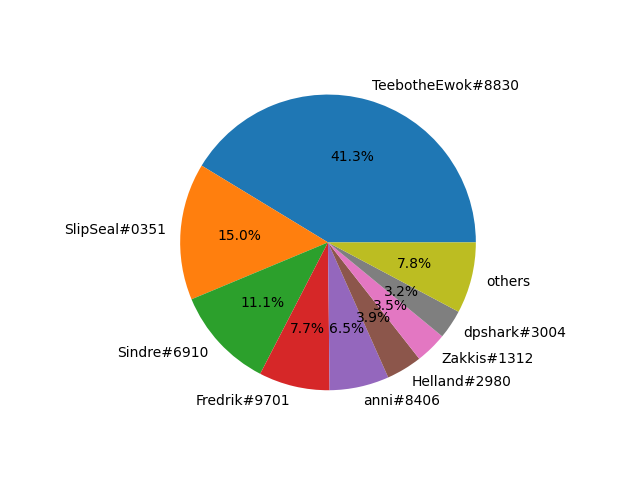
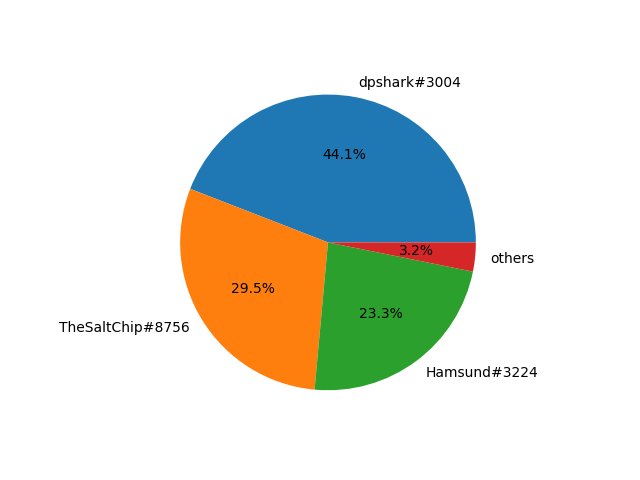
Added commands to check words(list, piechart, and stuff) + other small fixes

diff --git a/countInfo.py b/countInfo.py
@@ -48,7 +48,47 @@ async def get_table(client, message):
 	
 	return member_list, member_counter
 
+#returns table of users and number of words sendt
+async def get_tableWords(client, message):
+	#get all text channels in server
+	text_channel_list = []
+	server = message.guild.id
+	for guild in client.guilds:
+		if guild.id == server:
+			for channel in guild.text_channels:
+				if str(channel.type) == 'text':
+					text_channel_list.append(channel)
+	
+	#get all members in server
+	member_list = []
+	for guild in client.guilds:
+		if guild.id == server:
+			for member in guild.members:
+				member_list.append(member)
+	#list for counting
+	member_counter = []
+	for x in member_list:
+		member_counter.append(0)
+	#count through messages
+	for txtChannel in text_channel_list:
+		async for msg in txtChannel.history(limit=10000):
+			for i in range(len(member_list)):
+				if msg.author.id == member_list[i].id:
+					member_counter[i] += len(" ".join(msg.content.split()).split(" "))
+	
+	for i in range(len(member_list)):
+		member_list[i] = str(member_list[i])
+	
+	#sort
+	index = list(range(len(member_counter)))
 
+	index.sort(key = member_counter.__getitem__,reverse=True)
+
+	member_counter[:] = [member_counter[i] for i in index]
+	member_list[:] = [member_list[i] for i in index]
+
+	
+	return member_list, member_counter
 
 #returns string of users: number of messages
 async def get_txt(client, message):
@@ -127,6 +167,89 @@ async def get_count(user, client, message):
 			if msg.author.id == int(userID):
 				counter += 1
 	return "Number of messages: " + str(counter)
+
+#Returns total number of messages sendt in server
+async def get_countAll(client,message):
+	counter = 0
+
+	text_channel_list = []
+	server = message.guild.id
+	for guild in client.guilds:
+		if guild.id == server:
+			for channel in guild.text_channels:
+				if str(channel.type) == 'text':
+					text_channel_list.append(channel)
+	
+	for txtChannel in text_channel_list:
+		async for msg in txtChannel.history(limit=10000):
+			counter += 1
+
+	return "Total number of messages: " + str(counter)
+
+#returns string of users: number of words
+async def get_wordTxt(client, message):
+	member_list, member_counter = await get_tableWords(client, message)
+
+	outStr = ""
+	for i in range(len(member_counter)):
+		outStr += str(member_list[i]) + ": " + str(member_counter[i]) + "\n"
+	return outStr	
+
+#returns piechart of users: %of messages
+async def get_wordImg(client, message):
+	member_list, member_counter = await get_tableWords(client, message)
+
+	df = pd.DataFrame(data = {'Users':member_list , '% Words' :member_counter})
+
+	#new version
+	
+	#% cut off point for pie chart
+	cutOffPoint = 3
+	#max nr of messages
+	maxWords = df['% Words'].sum()
+	for i in range(len(member_counter)):
+		if (member_counter[i]/maxWords) < (cutOffPoint/100):
+			cutOffPoint = i
+			break
+	
+	#top users
+	df2 = df[:cutOffPoint].copy()
+
+	#others
+	new_row = pd.DataFrame(data = {'Users' : ['others'],'% Words' : [df['% Words'][cutOffPoint:].sum()]})
+
+	#combining top users with others
+	df2 = pd.concat([df2, new_row])
+	plt.pie(df2['% Words'],labels=df2['Users'],autopct='%1.1f%%')
+
+
+	###########
+
+
+	filename =  "other/image.png"
+	plt.savefig(filename)
+	image = discord.File(filename)
+	plt.clf()
+
+	return image
+
+#Returns total number of words sendt in server
+async def get_wordCountAll(client,message):
+	counter = 0
+
+	text_channel_list = []
+	server = message.guild.id
+	for guild in client.guilds:
+		if guild.id == server:
+			for channel in guild.text_channels:
+				if str(channel.type) == 'text':
+					text_channel_list.append(channel)
+	
+	for txtChannel in text_channel_list:
+		async for msg in txtChannel.history(limit=10000):
+			counter += len(" ".join(msg.content.split()).split(" "))
+
+	return "Total number of words: " + str(counter)
 
 #Returns number of words sendt, @user optional
 async def get_wordCount(user, client, message):

diff --git a/main.py b/main.py
@@ -41,12 +41,12 @@ async def on_message(message):
 	if message.author == client.user:
 		return
 	
-	if message.content.startswith("!add") and message.author.id == 223112835671130112:
+	if message.content.lower().startswith("!add") and message.author.id == 223112835671130112:
 		async with message.channel.typing():
 			await message.channel.send(weeddb.add_respons(message.content[5:]))
 		
 
-	elif message.content.startswith("!remove") and message.author.id == 223112835671130112:
+	elif message.content.lower().startswith("!remove") and message.author.id == 223112835671130112:
 		async with message.channel.typing():
 			await message.channel.send(weeddb.remove_respons(message.content[8:]))
 		
@@ -60,38 +60,54 @@ async def on_message(message):
 				strOut += (str(x) + " " + str(db[str(x)]) + "\n")
 			await message.channel.send("```\n" + strOut + "\n```")
 	
-	elif message.content.startswith("!help"):
+	elif message.content.lower().startswith("!help"):
 		async with message.channel.typing():
 			await message.channel.send(file=discord.File("commands.md"))
 
 	#webhooks
-	elif message.content.startswith("!send"):
+	elif message.content.lower().startswith("!send"):
 		async with message.channel.typing():
 			await webhook.sendMsg(message, client)
 	
 	
-	elif message.content.startswith("!counttxt"):
+	elif message.content.lower().startswith("!counttxt"):
 		async with message.channel.typing():
 			await message.channel.send("```\n" + await countInfo.get_txt(client, message) + "\n```")
 
-	elif message.content.startswith("!countimg"):
+	elif message.content.lower().startswith("!countimg"):
 		async with message.channel.typing():
 			await message.channel.send(file=await countInfo.get_img(client, message))
 
-	elif message.content.startswith("!count"):
+	elif message.content.lower().startswith("!countall"):
+		async with message.channel.typing():
+			await message.reply(await countInfo.get_countAll(client,message), mention_author=True)
+
+	elif message.content.lower().startswith("!count"):
 		async with message.channel.typing():
 			await message.reply(await countInfo.get_count(message.content[7:],client, message), mention_author=True)
 	
-	elif message.content.startswith("!wordCount"):
+	elif message.content.lower().startswith("!wordcounttxt"):
+		async with message.channel.typing():
+			await message.channel.send("```\n" + await countInfo.get_wordTxt(client, message) + "\n```")
+
+	elif message.content.lower().startswith("!wordcountimg"):
+		async with message.channel.typing():
+			await message.channel.send(file=await countInfo.get_wordImg(client, message))
+
+	elif message.content.lower().startswith("!wordcountall"):
+		async with message.channel.typing():
+			await message.reply(await countInfo.get_wordCountAll(client,message), mention_author=True)
+
+	elif message.content.lower().startswith("!wordcount"):
 		async with message.channel.typing():
 			await message.reply(await countInfo.get_wordCount(message.content[11:],client, message),mention_author=True)
+	
 
-
-	elif message.content.startswith("!art"):
+	elif message.content.lower().startswith("!art"):
 		async with message.channel.typing():
 			await message.channel.send("```\n" + art.text2art(message.content[5:]) + "\n```")
 
-	elif message.content.startswith("!github"):
+	elif message.content.lower().startswith("!github"):
 		async with message.channel.typing():
 			await message.channel.send("https://github.com/591291-hvl/dpsharkBot")
 
@@ -133,7 +149,7 @@ async def on_message(message):
 		async with message.channel.typing():
 			await message.reply(file=discord.File('other/ThonkSpin.gif'))
 
-	elif message.content.startswith("!d"):
+	elif message.content.lower().startswith("!d"):
 		async with message.channel.typing():
 			number = message.content[2:]
 			value = randint(1,int(number))

diff --git a/commands.md b/commands.md
@@ -1,6 +1,8 @@
 ## List of features/commands:
 ----------------------------
 
+### [keyword] responses tools
+
 >**!add [respons]**     
 >   Adds new response to [keyword]   
 
@@ -10,17 +12,41 @@
 >**!all**       
 >   Lists all responses to [keyword]
 
+----
+
+### Number of messages
+
 >**!count [@user(optional)]**      
 >   Sends number of messages sendt by @user, or yourself
 
->**!counttxt**  
+>**!countAll**      
+>   Sends total number of messages sendt 
+
+>**!countTxt**  
 >   Sends list of number of messages per user    
 
->**!countimg**   
+>**!countImg**   
 >   Sends piechart of % messages sendt by each user     
+
+----
+
+### Number of words
 
 >**!wordCount [@user(optional)]**   
 >   Sends number of words sendt by @user, or yourself
+
+>**!wordCountAll**      
+>   Sends total number of words sendt 
+
+>**!wordCountTxt**  
+>   Sends list of number of words per user    
+
+>**!wordCountImg**   
+>   Sends piechart of % words sendt by each user 
+
+----
+
+### Other
 
 >**!art" [word]**   
 >   Sends ascii art of [word]

diff --git a/readme.md b/readme.md
@@ -3,6 +3,8 @@
 ## List of features/commands:
 ----------------------------
 
+### [keyword] responses tools
+
 >**!add [respons]**     
 >   Adds new response to [keyword]   
 
@@ -12,17 +14,41 @@
 >**!all**       
 >   Lists all responses to [keyword]
 
+----
+
+### Number of messages
+
 >**!count [@user(optional)]**      
 >   Sends number of messages sendt by @user, or yourself
 
->**!counttxt**  
+>**!countAll**      
+>   Sends total number of messages sendt 
+
+>**!countTxt**  
 >   Sends list of number of messages per user    
 
->**!countimg**   
+>**!countImg**   
 >   Sends piechart of % messages sendt by each user     
+
+----
+
+### Number of words
 
 >**!wordCount [@user(optional)]**   
 >   Sends number of words sendt by @user, or yourself
+
+>**!wordCountAll**      
+>   Sends total number of words sendt 
+
+>**!wordCountTxt**  
+>   Sends list of number of words per user    
+
+>**!wordCountImg**   
+>   Sends piechart of % words sendt by each user 
+
+----
+
+### Other
 
 >**!art" [word]**   
 >   Sends ascii art of [word]
